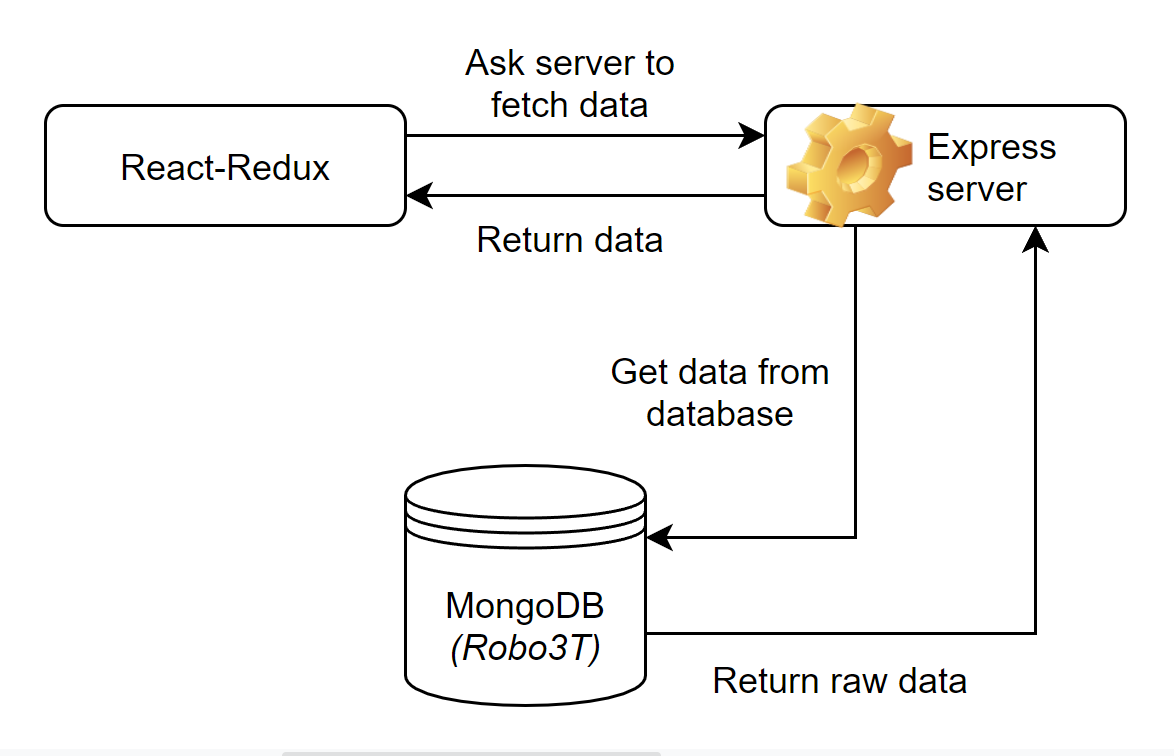
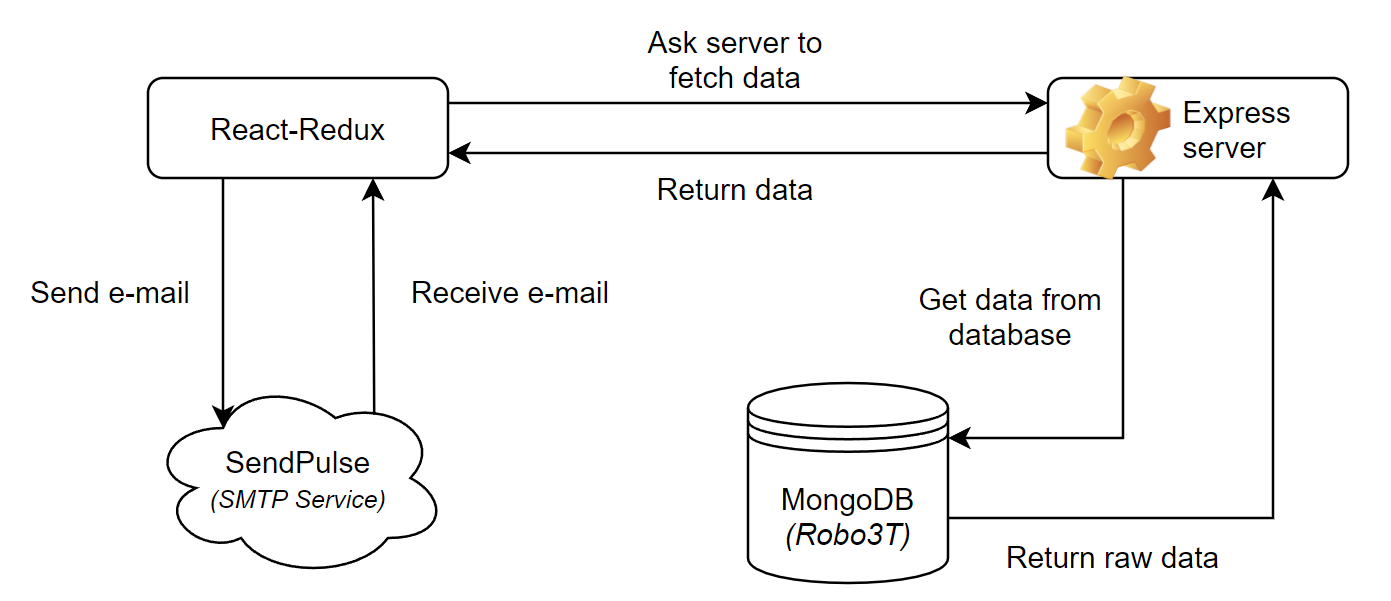
Data.png update + klein beetje software_architecture beschreven

diff --git a/koeskoes/2.Sprint1/Documentatie/Software Guidebook/6_software_architecture.md b/koeskoes/2.Sprint1/Documentatie/Software Guidebook/6_software_architecture.md
@@ -1,5 +1,20 @@
 # Software Architecture
 
+## Hoe ziet het "grote plaatje" eruit?
+
+Het volgende qua software architecture is te vinden:
+
+- React-Redux
+- Express server
+- MongoDB database
+- SMTP service SendPulse
+
+![Data](assets/data/data.png "Data")
+
+## Is er een duidelijke structuur?
+
+Er is een duidelijke structuur. Zoals de afbeelding hierboven weergeven, is duidelijk te zien wat er gebeurd.
+
 <!--
 Intent
 
